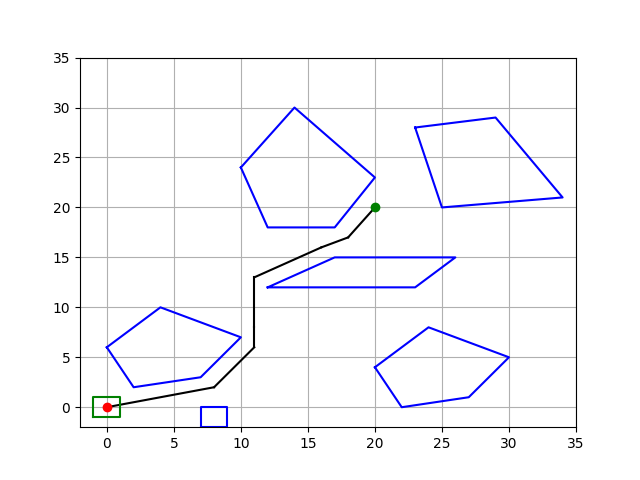
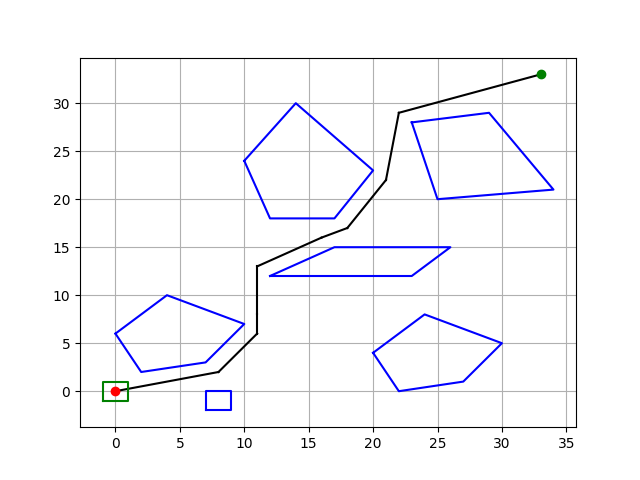
adding final code changes

diff --git a/hw6/code/q3.py b/hw6/code/q3.py
@@ -8,7 +8,7 @@ if __name__ == "__main__":
     # points = [[[1.0, 2.0], [4.0, 3.0], [4.0, 2.0]], [[4.0, 8.0], [6.0, 7.0], [4.0, 4.0], [7.0, 6.0]], [[6.0, 8.0], [9.84, 8.87], [7.16, 11.76]], [[6.0, 10.0], [8.0, 10.0], [5.0, 11.74], [6.0, 13.46], [8.0, 13.46], [9.0, 11.73]]]
     
     # isolated test case
-    # points = [[[2.0, 2.0], [0.0, 6.0], [4.0, 10.0], [10.0, 7.0], [7.0, 3.0]], [[7.0, -2.0], [7.0, 0.0], [9.0, 0.0], [9.0, -2.0]], [[22.0, 0.0], [20.0, 4.0], [24.0, 8.0], [30.0, 5.0], [27.0, 1.0]], [[12.0, 18.0], [10.0, 24.0], [14.0, 30.0], [20.0, 23.0], [17.0, 18.0]], [[12.0, 12.0], [17.0, 15.0], [26.0, 15.0], [23.0, 12.0]], [[25.0, 20.0], [23.0, 28.0], [29.0, 29.0], [34.0, 21.0]]]
+    points = [[[2.0, 2.0], [0.0, 6.0], [4.0, 10.0], [10.0, 7.0], [7.0, 3.0]], [[7.0, -2.0], [7.0, 0.0], [9.0, 0.0], [9.0, -2.0]], [[22.0, 0.0], [20.0, 4.0], [24.0, 8.0], [30.0, 5.0], [27.0, 1.0]], [[12.0, 18.0], [10.0, 24.0], [14.0, 30.0], [20.0, 23.0], [17.0, 18.0]], [[12.0, 12.0], [17.0, 15.0], [26.0, 15.0], [23.0, 12.0]], [[25.0, 20.0], [23.0, 28.0], [29.0, 29.0], [34.0, 21.0]]]
     # points = [[[2.0, 2.0], [0.0, 6.0], [4.0, 10.0], [10.0, 7.0], [7.0, 3.0]], [[7.0, -2.0], [7.0, 0.0], [9.0, 0.0], [9.0, -2.0]], [[22.0, 0.0], [20.0, 4.0], [24.0, 8.0], [30.0, 5.0], [27.0, 1.0]], [[12.0, 14.0], [10.0, 21.0], [14.0, 30.0], [20.0, 23.0], [17.0, 14.0]], [[12.0, 12.0], [17.0, 15.0], [26.0, 15.0], [23.0, 12.0]], [[25.0, 20.0], [23.0, 28.0], [29.0, 29.0], [34.0, 21.0]]]
     
     # another isolated test case
@@ -17,10 +17,10 @@ if __name__ == "__main__":
     # points = [[[0.0, 1.0], [1.5, 4.0], [1.0, 6.0]], [[4.0, 4.0], [7.0, 4.0], [5.5, 8.0]]]
 
     # overlapping test case
-    points = [[[0.0, 1.0], [4.0, 2.0], [4.0, 0.0]], [[4.0, 8.0], [6.0, 7.0], [4.0, 5.0], [7.0, 6.0]], [[6.0, 8.0], [9.84, 8.87], [7.16, 11.76]], [[6.0, 10.0], [8.0, 10.0], [5.0, 11.74], [6.0, 7.46], [8.0, 13.46], [9.0, 11.73]]]
+    # points = [[[0.0, 1.0], [4.0, 2.0], [4.0, 0.0]], [[4.0, 8.0], [6.0, 7.0], [4.0, 5.0], [7.0, 6.0]], [[6.0, 8.0], [9.84, 8.87], [7.16, 11.76]], [[6.0, 10.0], [8.0, 10.0], [5.0, 11.74], [6.0, 7.46], [8.0, 13.46], [9.0, 11.73]]]
 
     start = np.array([0, 0])
-    end = np.array([40, 25])
+    end = np.array([33, 33])
     
     # robot = np.array([[0,0],[0,0.5],[0.5,0]], np.float32)
     # robot = np.array([[0,1],[-1,-1],[1,-1]], np.float32)

diff --git a/hw6/code/q2.py b/hw6/code/q2.py
@@ -357,9 +357,9 @@ class VisibiltyGraph:
         curr_polys = []
         for polygon in self.polygons:
             curr_poly = []
-            for pt in polygon['convex_hull']:
-                for rbt in robot:
-                    curr_poly.append(pt + rbt)
+            for poly_pt in polygon['convex_hull']:
+                for robot_pt in robot:
+                    curr_poly.append(poly_pt + robot_pt)
             curr_polys.append(curr_poly)
 
         # form all the new polygons here
@@ -374,24 +374,11 @@ class VisibiltyGraph:
         # fire vg computation and base checks
         self.checkAndCompute()
 
-    def plotPolygonsAndPaths(self, robot = None, isRobot=False):
-        xmin, xmax = np.inf, -np.inf
-        ymin, ymax = np.inf, -np.inf
-        
+    def plotPolygonsAndPaths(self, robot = None, isRobot=False):        
         for i, poly in enumerate(self.original_polygons):
             poly_hull = poly['convex_hull']
             hull_x = poly_hull[:,0]
             hull_y = poly_hull[:,1]
-            
-            #compute plotting limits
-            if np.min(hull_x) < xmin:
-                xmin = np.min(hull_x)
-            if np.min(hull_y) < ymin:
-                ymin = np.min(hull_y)
-            if np.max(hull_x) > xmax:
-                xmax = np.max(hull_x)
-            if np.max(hull_y) > ymax:
-                ymax = np.max(hull_y)
             
             # actually plot the polygon
             hull_x = np.append(hull_x, hull_x[0])
@@ -420,8 +407,9 @@ class VisibiltyGraph:
                 hull_y = np.append(hull_y, hull_y[0])
                 plt.plot(hull_x, hull_y, "g-")
 
-        plt.xlim(xmin-2,xmax+2)
-        plt.ylim(ymin-2,ymax+2)
+        # print (xmin, xmax, ymin, ymax)
+        # plt.xlim(xmin-2,xmax+2)
+        # plt.ylim(ymin-2,ymax+2)
         plt.grid(True)
         plt.show()
 
